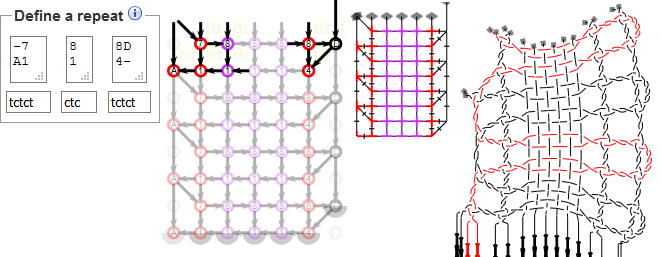
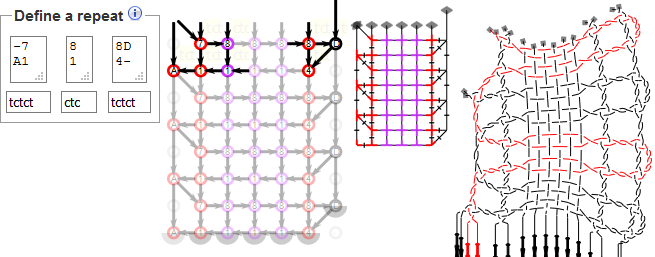
new simplified explanation of foot sides (no more checker to add)

diff --git a/docs/help/Tiles.md b/docs/help/Tiles.md
@@ -80,11 +80,25 @@ or use `l`'s and `r`'s for a left twist or right twist.
 
 {% include stitches.html %}
 
-Stitches in the outer columns may show up black hand have a `-` in the input field.
-Unless you know what you are doing, don't change these input fields.
+Some stitches in foot sides of predefined patterns that show up black,
+may have a `-` in the input field.
+Unless you know what you are doing, don't change these input fields,
+see foot sides under the advance subjects.
 
-Microsofts Edge browser won't show the yellow form field when clicking a node.
-Use the tab key or shift-tab to browse through all fields and links on the page.
+Note that in the example below the two foot side stitches on the right of the 
+thread diagram, are drawn as a single stitch in the pair diagram.
+The two stitches are defined with [tctcttrrctct]
+at the top-right stitch in the prototype diagram.
+
+![](images/foot-side-stitches.png)
+
+[tctcttrrctct]: /GroundForge/tiles.html?patchWidth=3&patchHeight=8&g1=tctcttrrctct&f1=tctct&c1=ctc&b1=tctct&f2=tctct&c2=ctc&b2=tctct&a2=tctct&footside=-7,A1&tile=8,1&headside=8D,4-&footsideStitch=tctct&tileStitch=ctc&headsideStitch=tctct&shiftColsSW=-1&shiftRowsSW=2&shiftColsSE=0&shiftRowsSE=2
+
+More or less twists along the foot sides can influence distortion of the thread diagram.
+For the path taken by contrasting pairs in the final design it is only important
+whether the number of twists are odd or even.
+The passive pairs along the foot sides won't influence the paths of contrasting pairs.
+
 
 Toggle thread colors
 ====================
@@ -92,7 +106,7 @@ You may have to scroll/drag the pair diagram to make
 the squares at the start of the threads visible.
 Click these squares to toggle between a black or red color.
 
-A tooltip shows when your mouse hovers over a square. 
+A tooltip shows a thread number when your mouse hovers over a square. 
 Too tiny squares or too close together? Use the zoom function of your browser.
 Usually control-shift-plus to zoom in, control-zero to reset,
 on a mac use command for control.
@@ -164,33 +178,21 @@ The blue an purple rectangles illustrate corresponding sections in the form and 
 
 [example]: /GroundForge/tiles.html?patchWidth=7&patchHeight=18&a3=-&footside=B,-,C,-,B,-,B,-,&tile=-5-,5-5,-5-,B-C,-5-&headside=5,-,&footsideStitch=tctctr&tileStitch=ct&headsideStitch=-&shiftColsSW=-2&shiftRowsSW=4&shiftColsSE=2&shiftRowsSE=4
 
-The foot side stitch `tctctr` on the left, is replaced once
-with a dash by selecting the black stitch in the prototype.
+One of the foot side stitches `tctctr` on the left, is replaced
+with a dash (`-`) by selecting the stitch in the prototype.
 This stretches the outer pair of the next stitch.
 
-On the right side all stitches are ignored that are added to construct a foot side.
-In practice you would need at least one column to define other stitches
+
+All stitches that are added to the right side of the pattern for a foot side are ignored.
+In practice you would need at least one column of real stitches to define other stitches
 for the foot side than for the pattern.
-The thick orange curve causes two stitches directly connected with two pairs.
+The reconnection illustrated with the thick orange curve
+causes two stitches directly connected with two pairs.
 In those cases the stitches are merged into a single stitch in the pair diagram.
-Thus both pairs for the bottom stich are stretched.
+Thus both pairs for the bottom stitch are stretched.
 
 Not shown in this example, but the software may follow the inner pair of multiple
 ignored stitches to reconnect the outer pair at the bottom of the sequence.  
-
-Note that in the example below the two foot side stitches on the right of the 
-thread diagram, are drawn as a single stitch in the pair diagram.
-The two stitches are defined with [tctcttrrctct]
-at the top-right stitch in the prototype diagram.
-
-![](images/foot-side-stitches.png)
-
-[tctcttrrctct]: /GroundForge/tiles.html?patchWidth=3&patchHeight=8&g1=tctcttrrctct&f1=tctct&c1=ctc&b1=tctct&f2=tctct&c2=ctc&b2=tctct&a2=tctct&footside=-7,A1&tile=8,1&headside=8D,4-&footsideStitch=tctct&tileStitch=ctc&headsideStitch=tctct&shiftColsSW=-1&shiftRowsSW=2&shiftColsSE=0&shiftRowsSE=2
-
-More or less twists along the foot sides can influence distortion of the thread diagram.
-For the path taken by contrasting pairs in the final design it is only important
-whether the number of twists are odd or even.
-The passive pairs along the foot sides won't influence the paths of contrasting pairs.
 
 
 Demo section
